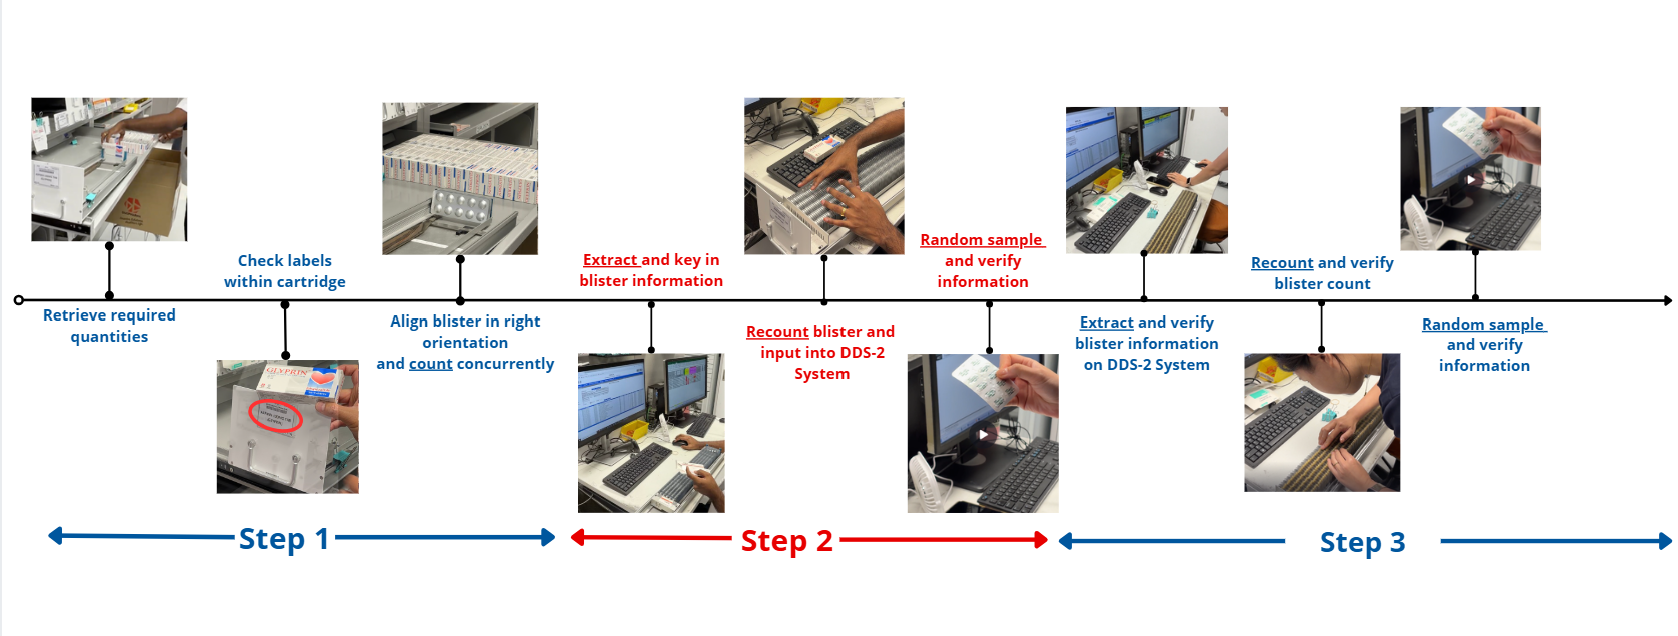
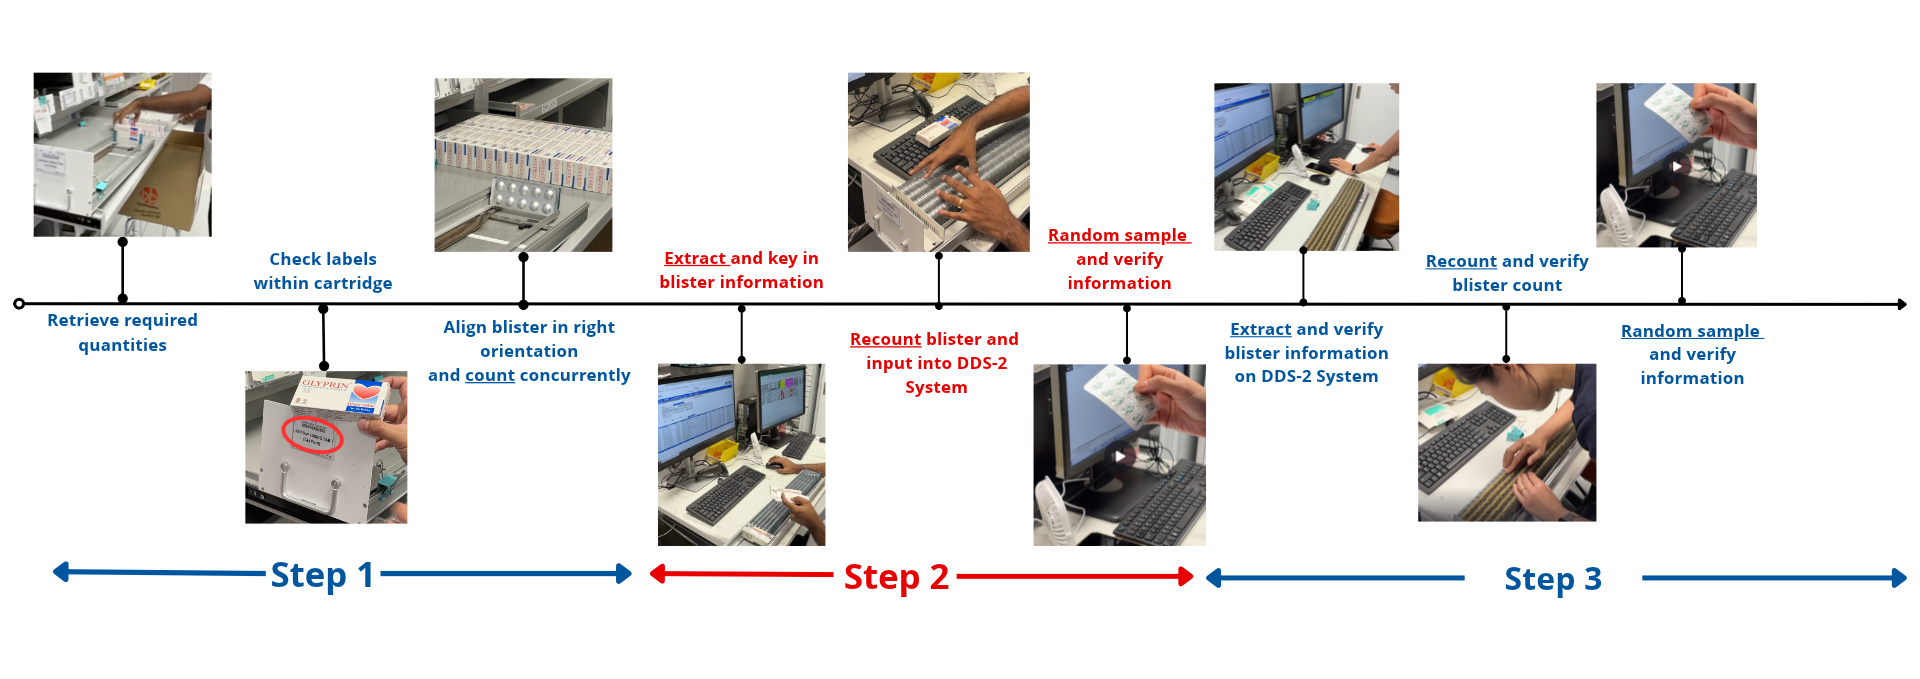
Updated Scope

diff --git a/index.html b/index.html
@@ -188,9 +188,10 @@
           tray. However, the system still requires manual intervention during the restocking 
           phase, making the process time-consuming and susceptible to human error.
         </p>
+      </div>
 
       <div>
-        <h3>1.2.1 Restocking Phase</h3>
+        <h4><u>1.2.1 Restocking Phase</u></h4>
         <p>
           The medication restocking phase consists of three main steps 
           (Figure 1). In the first step, the staff prepare the medication 
@@ -229,7 +230,7 @@
       </div>
 
       <div>
-        <h3>1.2.2 Error Analysis</h3>
+        <h4><u>1.2.2 Error Analysis</u></h4>
         <p>
           We investigated the relationship between staff experience and DDS-2 error rates using 
           the raw error data provided by the pharmacists. We analysed the error rates of all staff 
@@ -243,8 +244,32 @@
         <image-component
         tag="image"
         source="assets/graph - doe.png"
-        subtitle="Figure 1: There is a weak, non-significant negative correlation (n = 60, ρ = −0.22, p = 0.09) between days of experience and error rate">
+        subtitle="Figure 2: There is a weak, non-significant negative correlation (n = 60, ρ = −0.22, p = 0.09) between days of experience and error rate">
         </image-component>
+
+        <p>
+          To identify areas requiring the greatest attention, we then analysed the frequency of different 
+          restocking errors. As shown in Figure 3, certain errors occurred more frequently than others, 
+          allowing us to prioritise the problems that our proposed solution should address rather than 
+          attempting to automate every aspect of the process. We identified three important error categories: 
+          incorrect quantities and incorrect batch numbers and expiry date. Incorrect quantities may arise 
+          during the manual counting of medication blisters, while incorrect batch numbers and expiry date 
+          may result from manual data entry or verification. These findings directly inform the development 
+          of our prototype, something that can be made error-proof from all human errors. 
+        </p>
+
+        <image-component
+        tag="image"
+        source="assets/graph - errors.png"
+        subtitle="Figure 3: The graph shows that wrong quantity (46.82%), keying in of batch number (26.51%) and expiry date (13.65%) are the main causes of errors">
+        </image-component>
+
+        <p>
+          The consequences of these errors extend beyond the additional time spent when the restocking process 
+          is repeated. Medication errors like these can have serious consequences when they reach patients, 
+          potentially resulting in additional hospitalisation costs, estimated here at approximately S$3,650 per 
+          error (Ng et al., 2020). Therefore, improving medication verification is not only about increasing operational efficiency but also about reducing risks to patients and healthcare institutions.
+        </p>
       </div>
 
     </div>
@@ -255,52 +280,205 @@
     <sl-divider></sl-divider>
     <div>
       <div id="section-header-2">
-        <h2>2. Section Header 2</h2>
-        <p>
-          Ornare arcu dui vivamus arcu felis bibendum ut tristique et. Mi proin sed libero enim sed faucibus turpis in
-          eu. Odio ut sem nulla pharetra diam sit. Nibh cras pulvinar mattis nunc sed blandit libero. Lacus sed viverra
-          tellus in hac habitasse platea dictumst vestibulum. At augue eget arcu dictum varius duis. Mauris ultrices
-          eros in cursus turpis massa (Lindberg, 1967). Libero nunc consequat interdum varius sit amet mattis. Ut ornare
-          lectus sit amet est placerat in egestas erat. Elementum curabitur vitae nunc sed. Proin nibh nisl condimentum
-          id venenatis a condimentum vitae sapien (Chamberlin et al., 2008). Vitae tempus quam pellentesque nec nam
-          aliquam sem.
-        </p>
+        <h2>2. Scope, Problem Statement and Existing Technology</h2>
       </div>
 
       <div id="sub-section-2-header-1">
-        <h3>2.1. Sub-section Header 1</h3>
+        <h3>2.1. Scope</h3>
+      </div>
+
+      <div>
+        <h4><u>2.1.1 Stakeholder's Analysis</u></h4>
         <p>
-          Pellentesque nec nam aliquam sem et tortor consequat. Et netus et malesuada fames ac turpis egestas maecenas.
-          Eu tincidunt tortor aliquam nulla facilisi. Nunc aliquet bibendum enim facilisis gravida. Elementum pulvinar
-          etiam non quam lacus (Moll et al., 2011; Parker & Fox, 2010). Blandit cursus risus at ultrices mi. Arcu dui
-          vivamus arcu felis bibendum ut tristique. Porttitor rhoncus dolor purus non enim praesent elementum facilisis.
-          Mauris in aliquam sem fringilla. Non quam lacus suspendisse faucibus. Tristique senectus et netus et malesuada
-          fames ac. <a href="#image">Link to the image above</a>
+          In order to understand who would be affected by our proposed solution, we first conducted 
+          a stakeholder analysis, categorising our stakeholders into four key groups based on their 
+          levels of influence and interest in the project. From this, we identified the pharmacists 
+          and hospital operations team as our key players, given their significant involvement in 
+          and influence over the DDS-2 workflow. Patients and caregivers are not directly involved 
+          in the restocking process and remain as indirect stakeholders. Any improvements in 
+          efficiency and medication safety could ultimately benefit them but they have significantly 
+          lower interest and influence compared to our key players. The hospital IT team, on the other 
+          hand, plays an important role in approving the implementation of any automated solution, 
+          although their limited involvement in the daily workflow means they have comparatively lower 
+          interest. Meanwhile, pharmacy technicians, who are responsible for carrying out Steps 1 and 2 
+          of the restocking process, have a high level of interest in any improvements made, but less 
+          influence over implementation decisions compared to pharmacists and the hospital operations 
+          team. Finally, we also considered home-visit nurses, as the hospital operations team hopes 
+          that any automation developed could eventually be extended beyond the pharmacy. These nurses 
+          face similar challenges in counting blisters and verifying medication details, and could 
+          therefore benefit from a more accurate, automated approach. However, since they fall outside 
+          the immediate scope of our project, their current interest and influence remain relatively 
+          low, making them a potential consideration for future development.
         </p>
+
+        <image-component
+        tag="image"
+        source="assets/Scope.png"
+        subtitle="Figure 4: Stakeholder analysis of the DDS-2 restocking process. The stakeholders are categorised into four groups based on their levels of influence and interest in the project.">
+        </image-component>
 
         <!-- This is an example of how you might use the video component -->
         <video-component tag="rick" source="https://www.youtube.com/embed/dQw4w9WgXcQ"
           subtitle="Video: Never gonna give you up?"></video-component>
+
+        <p>
+          With the stakeholders identified, we ultimately decided to focus primarily on the pharmacists 
+          and hospital operations team, as they stand to benefit most directly from improvements to the 
+          workflow. For the hospital operations team, a more streamlined and automated restocking process 
+          could enable better manpower allocation and more effective pharmacy planning. For pharmacists, 
+          who already juggle multiple responsibilities in a high-pressure environment, reducing the time 
+          spent manually verifying cartridge information would allow them to redirect their time and 
+          energy towards other essential duties.
+        </p>
       </div>
 
-      <div id="sub-section-2-header-2">
-        <h3>2.2. Sub-section Header 2</h3>
+      <div>
+        <h4><u>2.1.1 User Survey</u></h4>
         <p>
-          Vitae proin sagittis nisl rhoncus mattis rhoncus urna neque viverra. Dignissim convallis aenean et tortor at
-          risus viverra adipiscing. Facilisi nullam vehicula ipsum a arcu cursus. Adipiscing elit pellentesque
-          habitant
-          morbi tristique senectus et netus. Turpis massa tincidunt dui ut ornare lectus. Suspendisse sed nisi lacus
-          sed. Diam volutpat commodo sed egestas egestas fringilla phasellus faucibus. Ut ornare lectus sit amet est
-          placerat in egestas. Magna fringilla urna porttitor rhoncus. Imperdiet dui accumsan sit amet.
+          To ensure that our solution addresses the challenges faced by those working directly with the 
+          system, we needed to understand their experiences firsthand. We therefore conducted a survey 
+          among NUH pharmacy staff to gather diverse perspectives and identify their most pressing 
+          needs. The response rate was 33% with 22 responses. One of the questions we asked was, "Which 
+          stages of restocking were most difficult?" The results revealed that counting was, by far, the 
+          most challenging step, largely due to the repetitive nature and high volume of the restocking 
+          workflow. This was followed by blister information verification, blister orientation, and 
+          database entry. These findings helped us identify the areas where improvements would have the 
+          greatest impact.
         </p>
 
-        <!-- This is an example of how you might use the table component -->
-        <table-component subtitle="Table: Demo table">
-          <div id="table-1"></div>
-        </table-component>
+        <p>
+          Having identified the most challenging stages, the next question was: What improvements do the 
+          users actually want? To find out, we asked respondents which steps they would find most useful 
+          to automate. Once again, counting emerged as the top priority, while blister information 
+          verification and orientation also ranked highly. This alignment between the most difficult 
+          tasks and the most desired areas for automation highlights a clear demand for a solution that 
+          can reduce the burden of manual cartridge restocking. However, when we asked respondents about 
+          their greatest concerns regarding a proposed solution, accuracy was the most frequently cited 
+          issue. This reveals an important consideration: while users want greater automation, it cannot 
+          come at the expense of accuracy. Our solution must therefore reduce repetitive manual work while 
+          maintaining, or ideally improving, the reliability of the existing process.
+        </p>
+
+        <p>
+          Beyond improving the daily workflow for pharmacy staff, automation could also bring broader 
+          operational benefits through more efficient resource allocation and cost-effective pharmacy 
+          planning. According to the NUHS Centre for Healthcare Innovation, the projected annual manpower 
+          savings from pharmacy automation could reach up to S$3.3 million per year and a 2.5-fold 
+          reduction in supply-related medication errors (Centre for Healthcare Innovation, 2026). 
+          Although these figures reflect the broader potential of pharmacy automation rather than our 
+          specific solution, they highlight the significant value that streamlining manual processes can 
+          bring. By automating the cartridge restocking phase, we therefore aim to address challenges at 
+          both levels: reducing the workload and stress experienced by pharmacists and pharmacy 
+          technicians, while also supporting the hospital operations team in optimising manpower and 
+          resources.
+        </p>
+      </div>
+      
+      <div id="sub-section-2-header-2">
+        <h3>2.2. Problem Statement</h3>
+        <p>
+          We defined the problem statement for our project from the perspective of the pharmacists and 
+          hospital operations team, who are the primary stakeholders in the DDS-2 restocking process. The 
+          problem statement is as follows:
+        </p>
+
+        <p style="text-align: center; font-size: 1.4rem; font-weight: 600; margin: 30px auto; max-width: 800px;color: #156082;">
+          Despite stringent medication-safety requirements, NUH Pharmacy’s manual DDS-2 cartridge 
+          replenishment workflow is vulnerable to counting and medication verification errors due to 
+          human workload, visual limitations, label clarity, and packaging variation.
+        </p>
+      </div>
+
+      <div id="sub-section-2-header-3">
+        <h3>2.3. Existing Technology</h3>
+      </div>
+
+      <div>
+        <h4><u>2.3.1 JVM VIXEN EX</u></h4>
+        <p>
+          The JVM VIXEN EX is an automated medication inspection system that uses imaging technology to 
+          extract and verify patient and medication information printed on packaged medication pouches. 
+          It also incorporates an error-identification mechanism that marks incorrectly packaged 
+          medication for re-inspection, providing a useful reference for the proposed rejection system.
+        </p>
+
+        <p>
+          However, the VIXEN EX is designed to inspect medication after pouch packaging rather than 
+          intact manufacturer blister packs. It does not support automated blister counting or 
+          verification of batch numbers and expiry dates printed directly on blister foil. Consequently, 
+          it does not fully address the requirements of the DDS-2 cartridge replenishment workflow.
+        </p>
+      </div>
+
+      <div>
+        <h4><u>2.3.2 Pharmablister Countmaster</u></h4>
+        <p>
+          The Pharmablister Countmaster integrates automated blister counting, visual defect detection, 
+          and rejection mechanisms to improve pharmacy efficiency and inventory accuracy. Its combination 
+          of blister singulation, inspection, and counting provides a relevant reference for the proposed 
+          solution.
+        </p>
+
+        <p>
+          However, its rejection mechanism primarily identifies physically defective blister packs, such 
+          as those with missing tablets or damaged packaging, rather than incorrect batch numbers or 
+          expiry dates. Furthermore, it does not incorporate OCR-based extraction and verification of 
+          printed blister information. As these functions are essential to the DDS-2 workflow, the 
+          Countmaster alone is insufficient to meet the project's requirements.
+        </p>
+      </div>
+
+      <div>
+        <h4><u>2.3.3 SEA Vision Harle2D</u></h4>
+        <p>
+          The SEA Vision Harle2D is an automated pharmaceutical inspection system that utilises Optical 
+          Character Recognition (OCR), Optical Character Verification (OCV), and specialised lighting to 
+          verify printed medication information, including batch numbers and expiry dates. Its use of 
+          controlled illumination to minimise reflections from aluminium blister foil provides a relevant 
+          reference for the proposed solution's imaging and verification system.
+        </p>
+
+        <p>
+          However, the Harle2D is primarily designed for integration into pharmaceutical manufacturing 
+          lines rather than hospital pharmacy restocking workflows. It does not specifically address 
+          automated blister counting, individual blister handling, or cartridge replenishment. Therefore, 
+          despite its relevant information verification capabilities, it does not provide a complete 
+          solution for the DDS-2 workflow
+        </p>
+      </div>
+
+      <div>
+        <h4><u>2.3.4 Jornen Desblister Machine DBM80</u></h4>
+        <p>
+          The Jornen DBM80 is designed for removing medication from blister packaging. Its adjustable 
+          feeding mechanism, bottom-feed singulation, and vertical magazine feeder provide useful 
+          references for handling blister packs of varying dimensions while maintaining individual blister 
+          alignment.
+        </p>
+
+        <p>
+          However, the DBM80 is intended for deblistering rather than inspecting and restocking intact blister packs. 
+          It does not incorporate automated blister counting, imaging-based information extraction, or 
+          verification of batch numbers and expiry dates. Consequently, its mechanical features may 
+          inform the proposed blister feeding mechanism, but additional inspection and verification 
+          systems would be required to meet the DDS-2 workflow requirements.
+        </p>
+      </div>
+
+      <div>
+        <h4><u>2.3.5 Summary of Existing Technology</u></h4>
+        <p>
+          Ultimately, while each of these three technologies offers valuable features that we can learn 
+          from, none provides a complete solution to the specific challenges faced during NUH Pharmacy's 
+          DDS-2 cartridge replenishment workflow. This highlights the opportunity for us to integrate 
+          their relevant strengths into a solution that can accurately count, verify, and handle blister 
+          blisters without damaging their packaging, while addressing the needs and concerns identified 
+          by our stakeholders.
+        </p>
       </div>
     </div>
 
+    
     <!-- This is an example of how you can use the references component to create references -->
     <div id="references" class="references">
       <sl-divider></sl-divider>

diff --git a/components/table-of-content/table-of-content.css b/components/table-of-content/table-of-content.css
@@ -18,7 +18,7 @@ sl-tree-item a:hover,
 sl-tree-item a:focus-visible {
   color: inherit !important;
   text-decoration: underline;
-  text-decoration-color: #4A90E2; /* Underline colour */
+  text-decoration-color: #156082; /* Underline colour #4A90E2*/
   text-decoration-thickness: 2.5px;  /* Underline thickness */
   text-underline-offset: 3px;
 }
